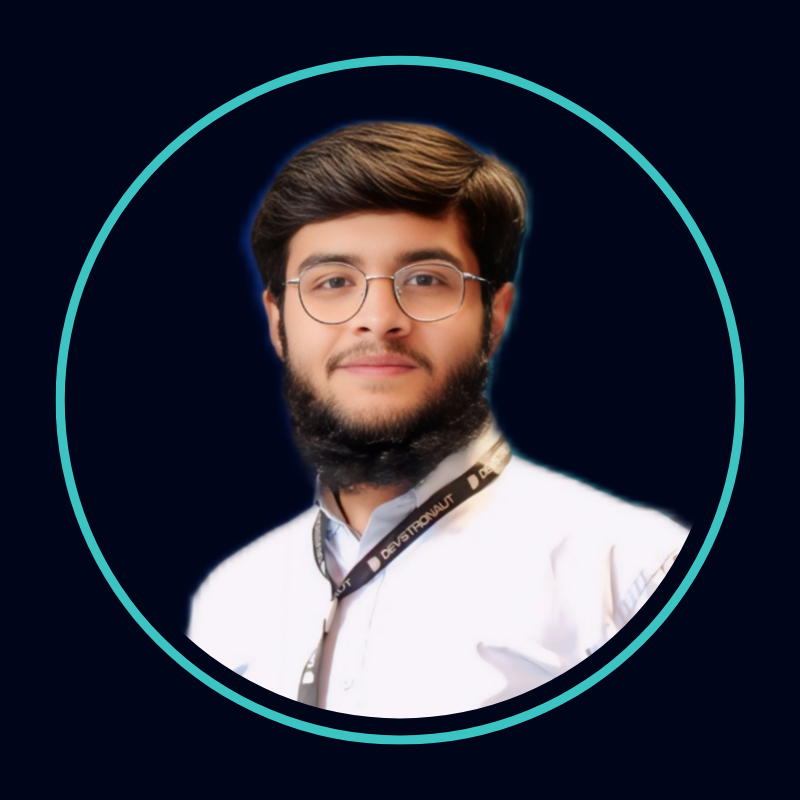
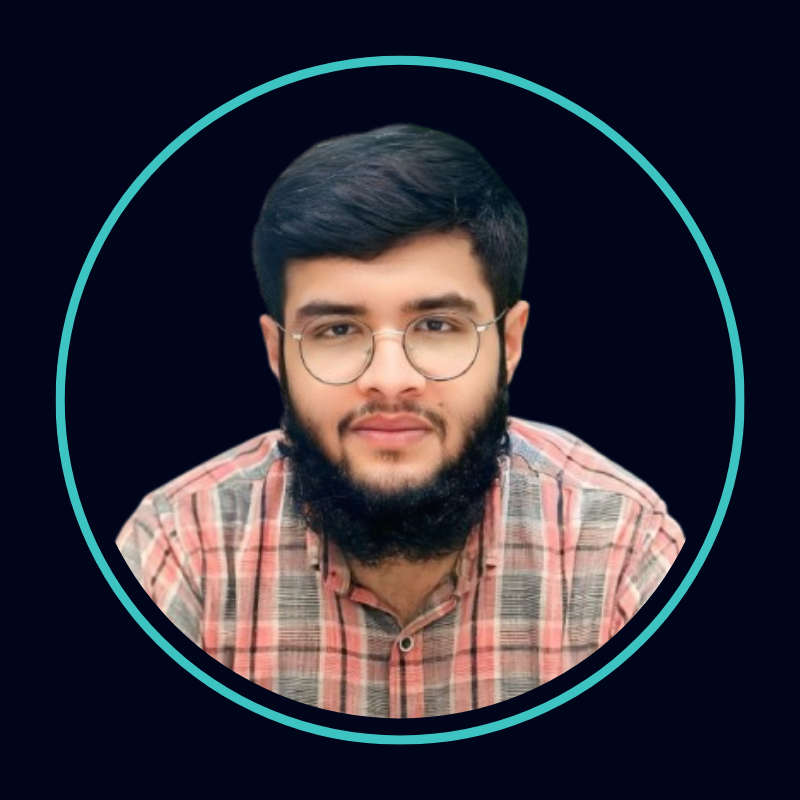
Fix

diff --git a/backend/server.js b/backend/server.js
@@ -10,7 +10,12 @@ const server = http.createServer(app);
 const corsOptions = {
   origin:
     process.env.NODE_ENV === "production"
-      ? ["https://shaheerbyhisollabs.me/"]
+      ? [
+          "https://shaheerbyhisollabs.me",
+          "https://shaheerbyhisollabs.me/",
+          "https://www.shaheerbyhisollabs.me",
+          "https://www.shaheerbyhisollabs.me/",
+        ]
       : ["http://localhost:3000", "http://localhost:3001"],
   methods: ["GET", "POST"],
   credentials: true,
